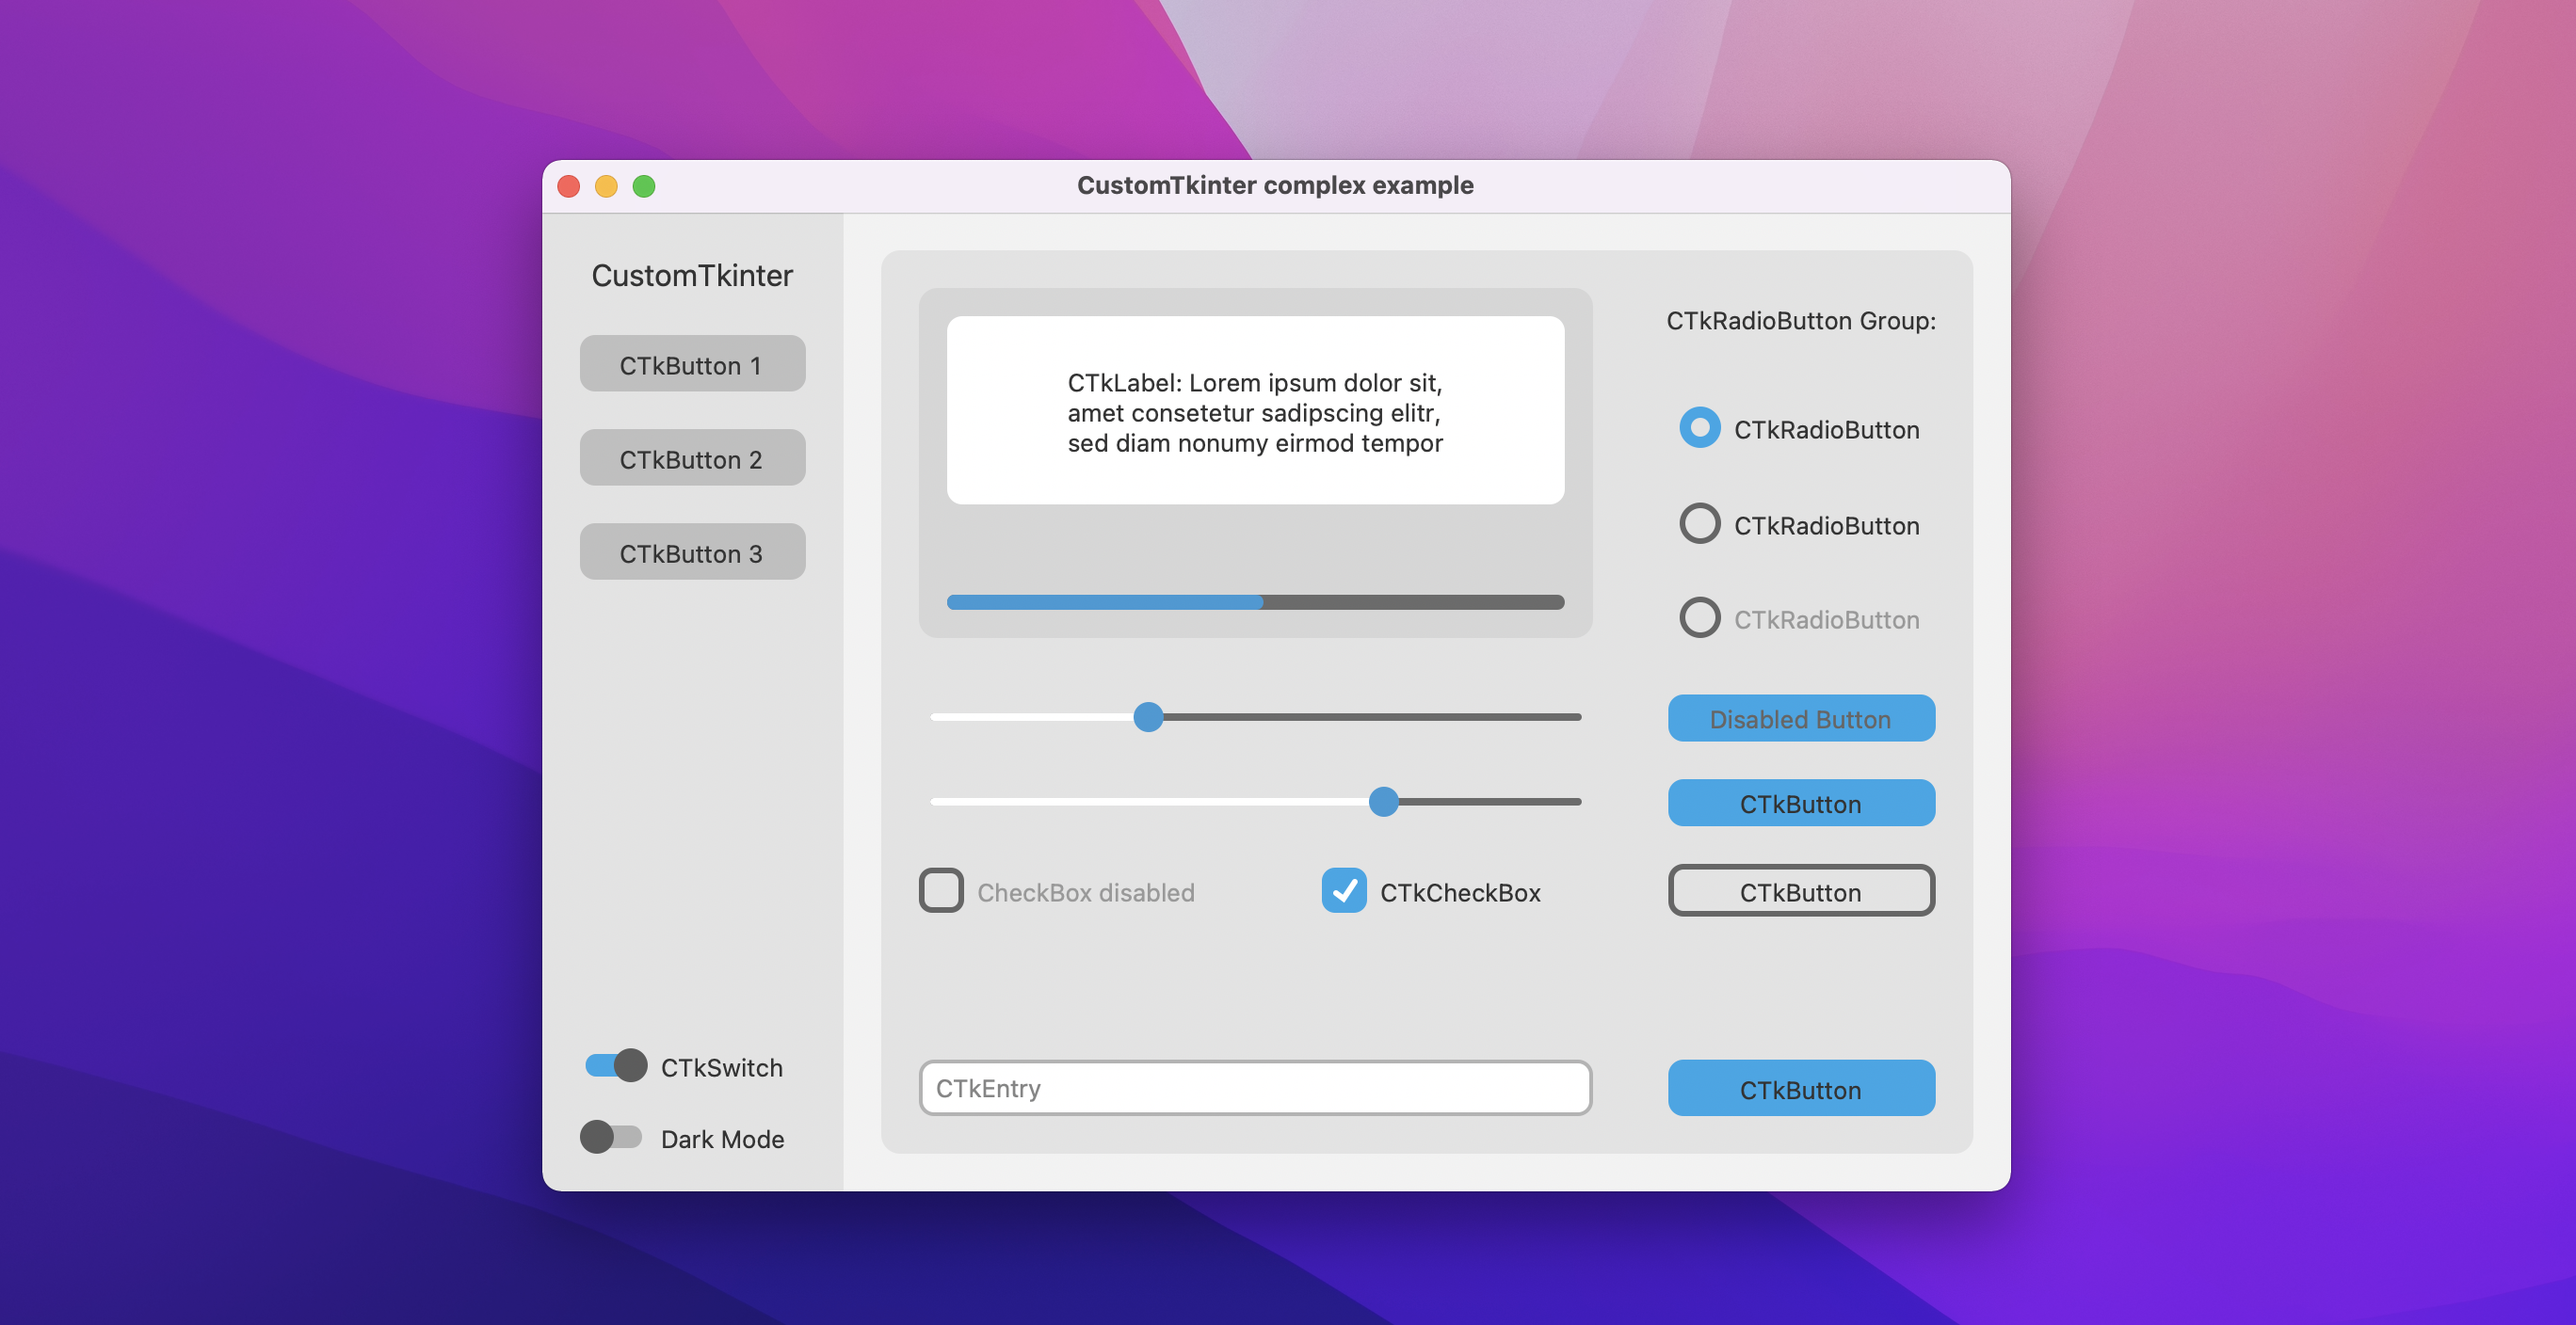
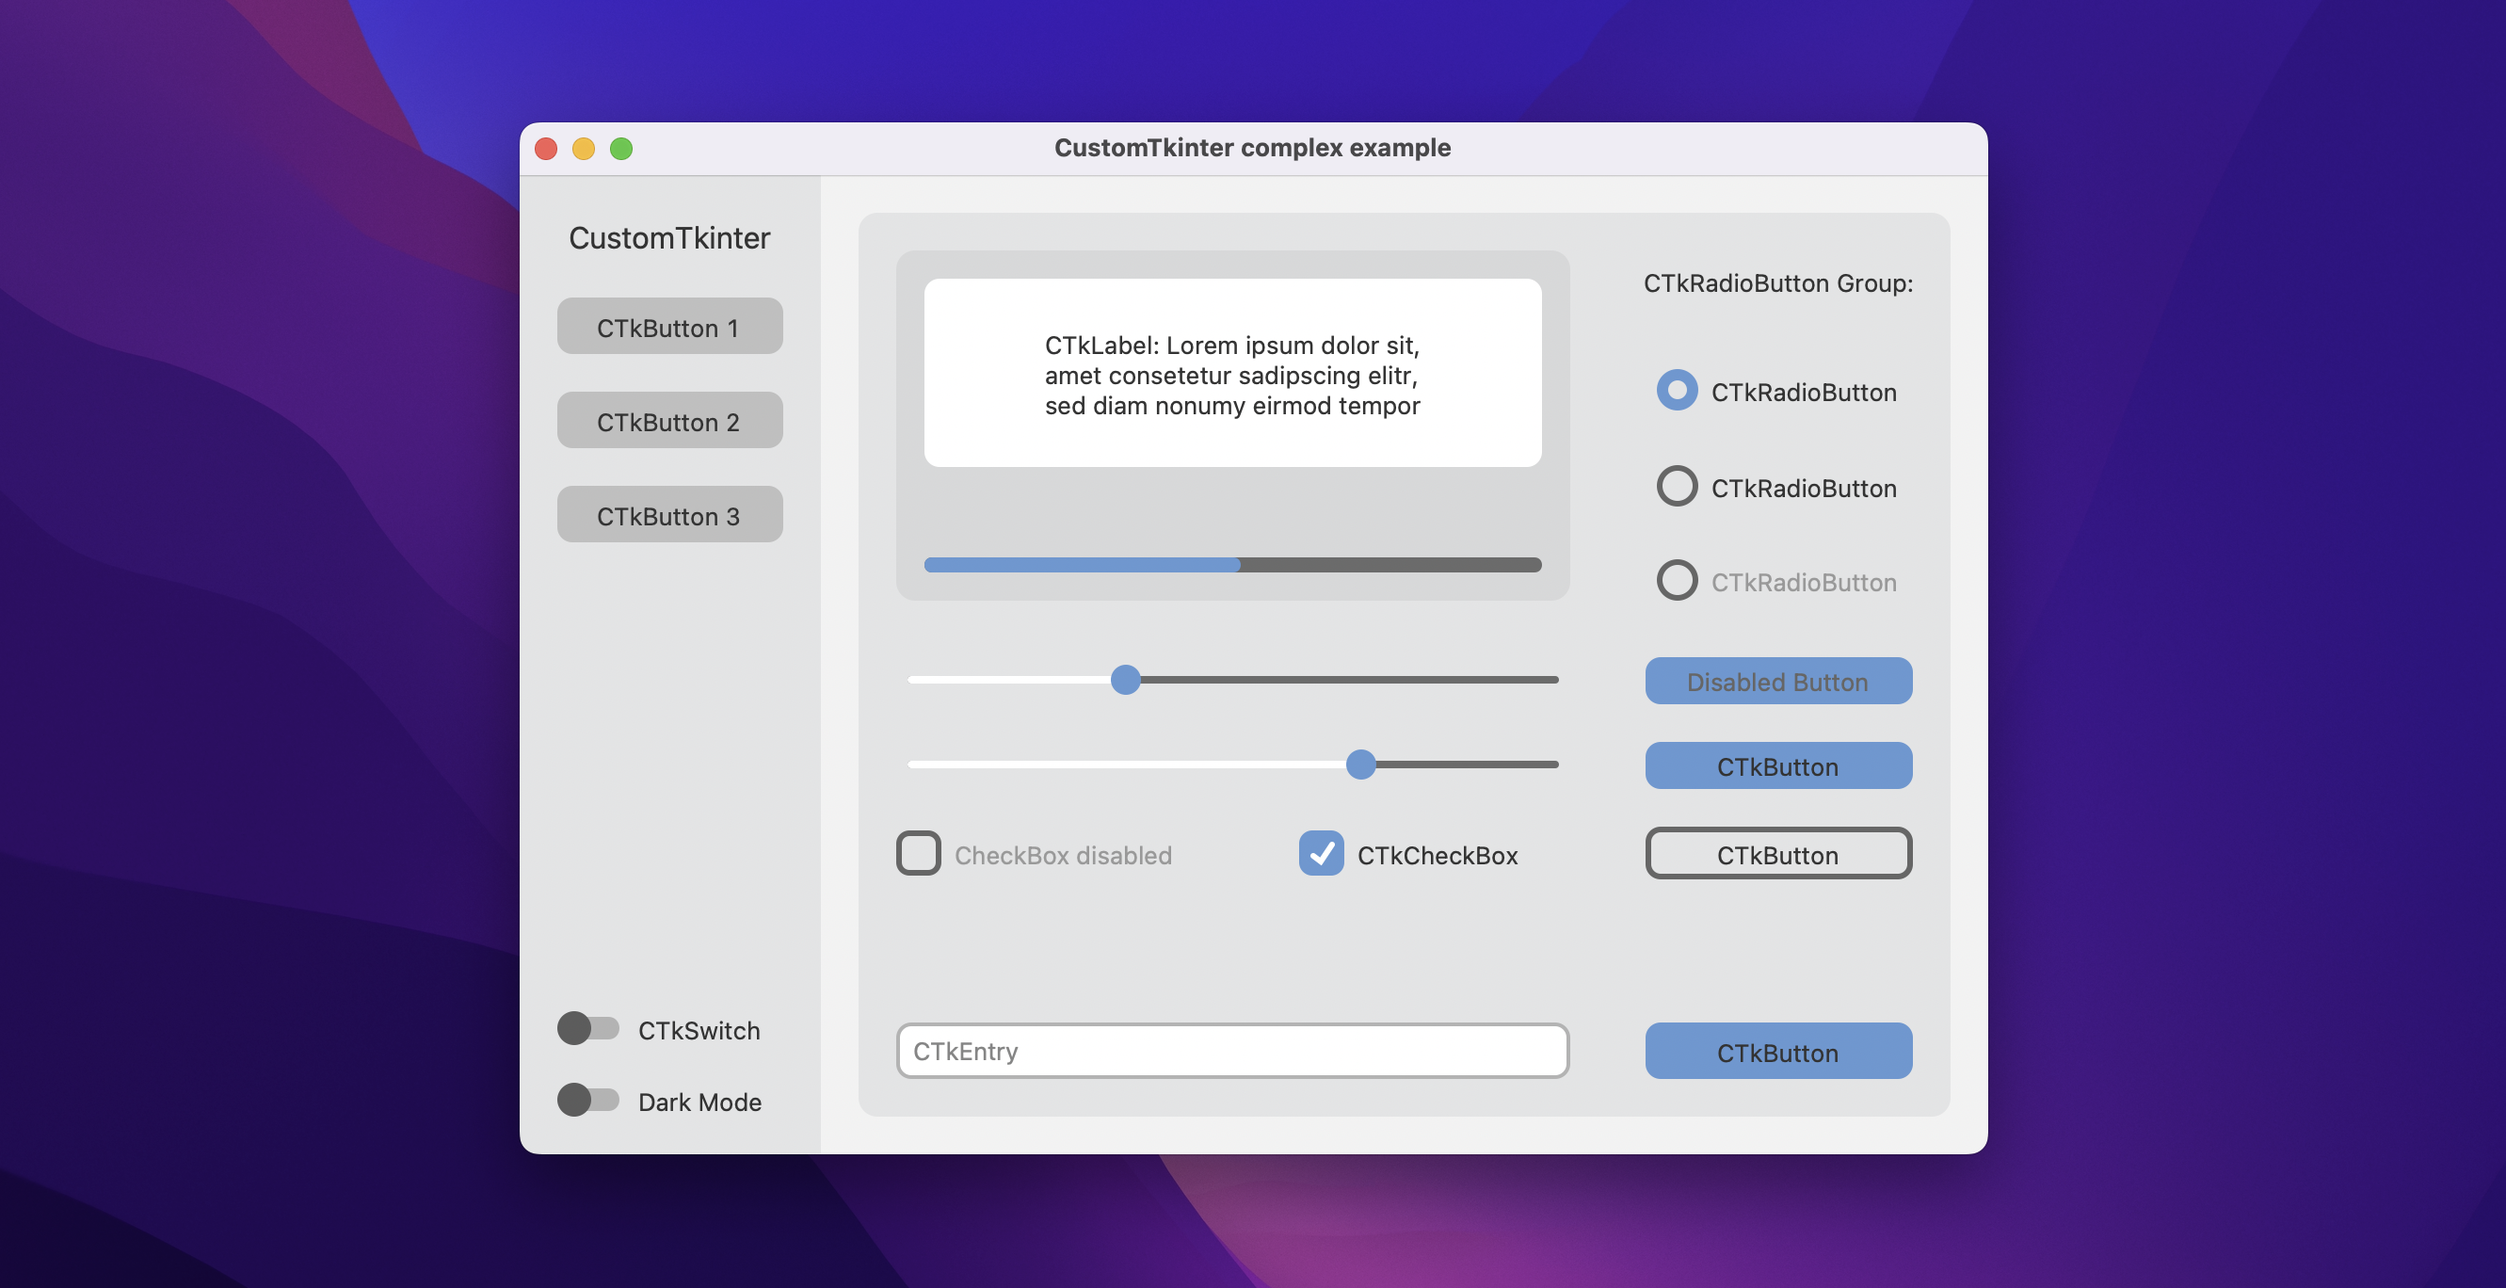
changed Readme.md

diff --git a/Readme.md b/Readme.md
@@ -3,7 +3,9 @@
 ![PyPI - License](https://img.shields.io/pypi/l/customtkinter)
 ![Total lines](https://img.shields.io/tokei/lines/github.com/tomschimansky/customtkinter?color=green&label=total%20lines)
 
-# CustomTkinter UI-Library
+<p align="center">
+    <h1 align="center">CustomTkinter UI-Library</h1>
+</p>
 
 ![](documentation_images/Windows_dark.png)
 | _`complex_example.py` on Windows 11 with dark mode and 'dark-blue' theme_
